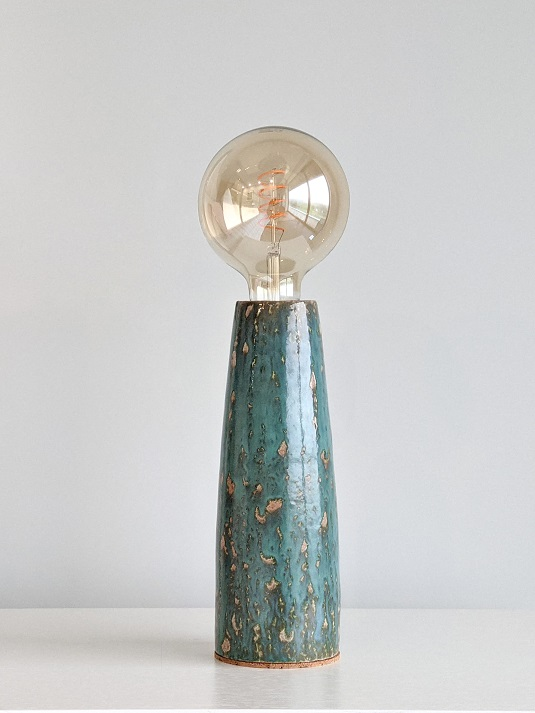
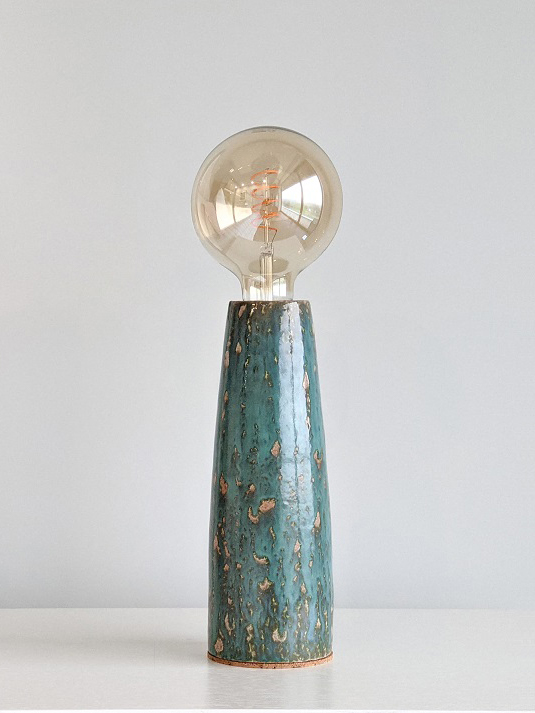
1

Changed region(s): [[0.3589, 0.1851, 0.6579, 0.9565], [0.5084, 0.1543, 0.5682, 0.1851], [0.4486, 0.1543, 0.4785, 0.1851]]

diff --git a/loja/farol.html b/loja/farol.html
@@ -94,20 +94,17 @@
             <div class="container">
                 <div class="grid-layout grid-2-columns p-b-50" data-item="grid-item" data-margin="30" data-lightbox="gallery">
                     
-                    <div class="grid-item">                        
-                            <img src="../images/products/farol18.jpg" class="img-fluid rounded">
-                    </div>
                     <div class="grid-item">
                             <img src="../images/products/farol28.jpg" class="img-fluid rounded">
                     </div>
-                    <div class="grid-item">
+                    <div class="grid-item">                        
                             <img src="../images/products/farol27.jpg" class="img-fluid rounded">
                     </div>
                     <div class="grid-item">
-                            <img src="../images/products/farol291.jpg" class="img-fluid rounded">
+                            <img src="../images/products/farol17.jpg" class="img-fluid rounded">
                     </div>
                     <div class="grid-item">
-                            <img src="../images/products/farol19.jpg" class="img-fluid rounded">
+                            <img src="../images/products/farol291.jpg" class="img-fluid rounded">
                     </div>
                     </div>
                 <div id='product-component-1630342756143'></div>
